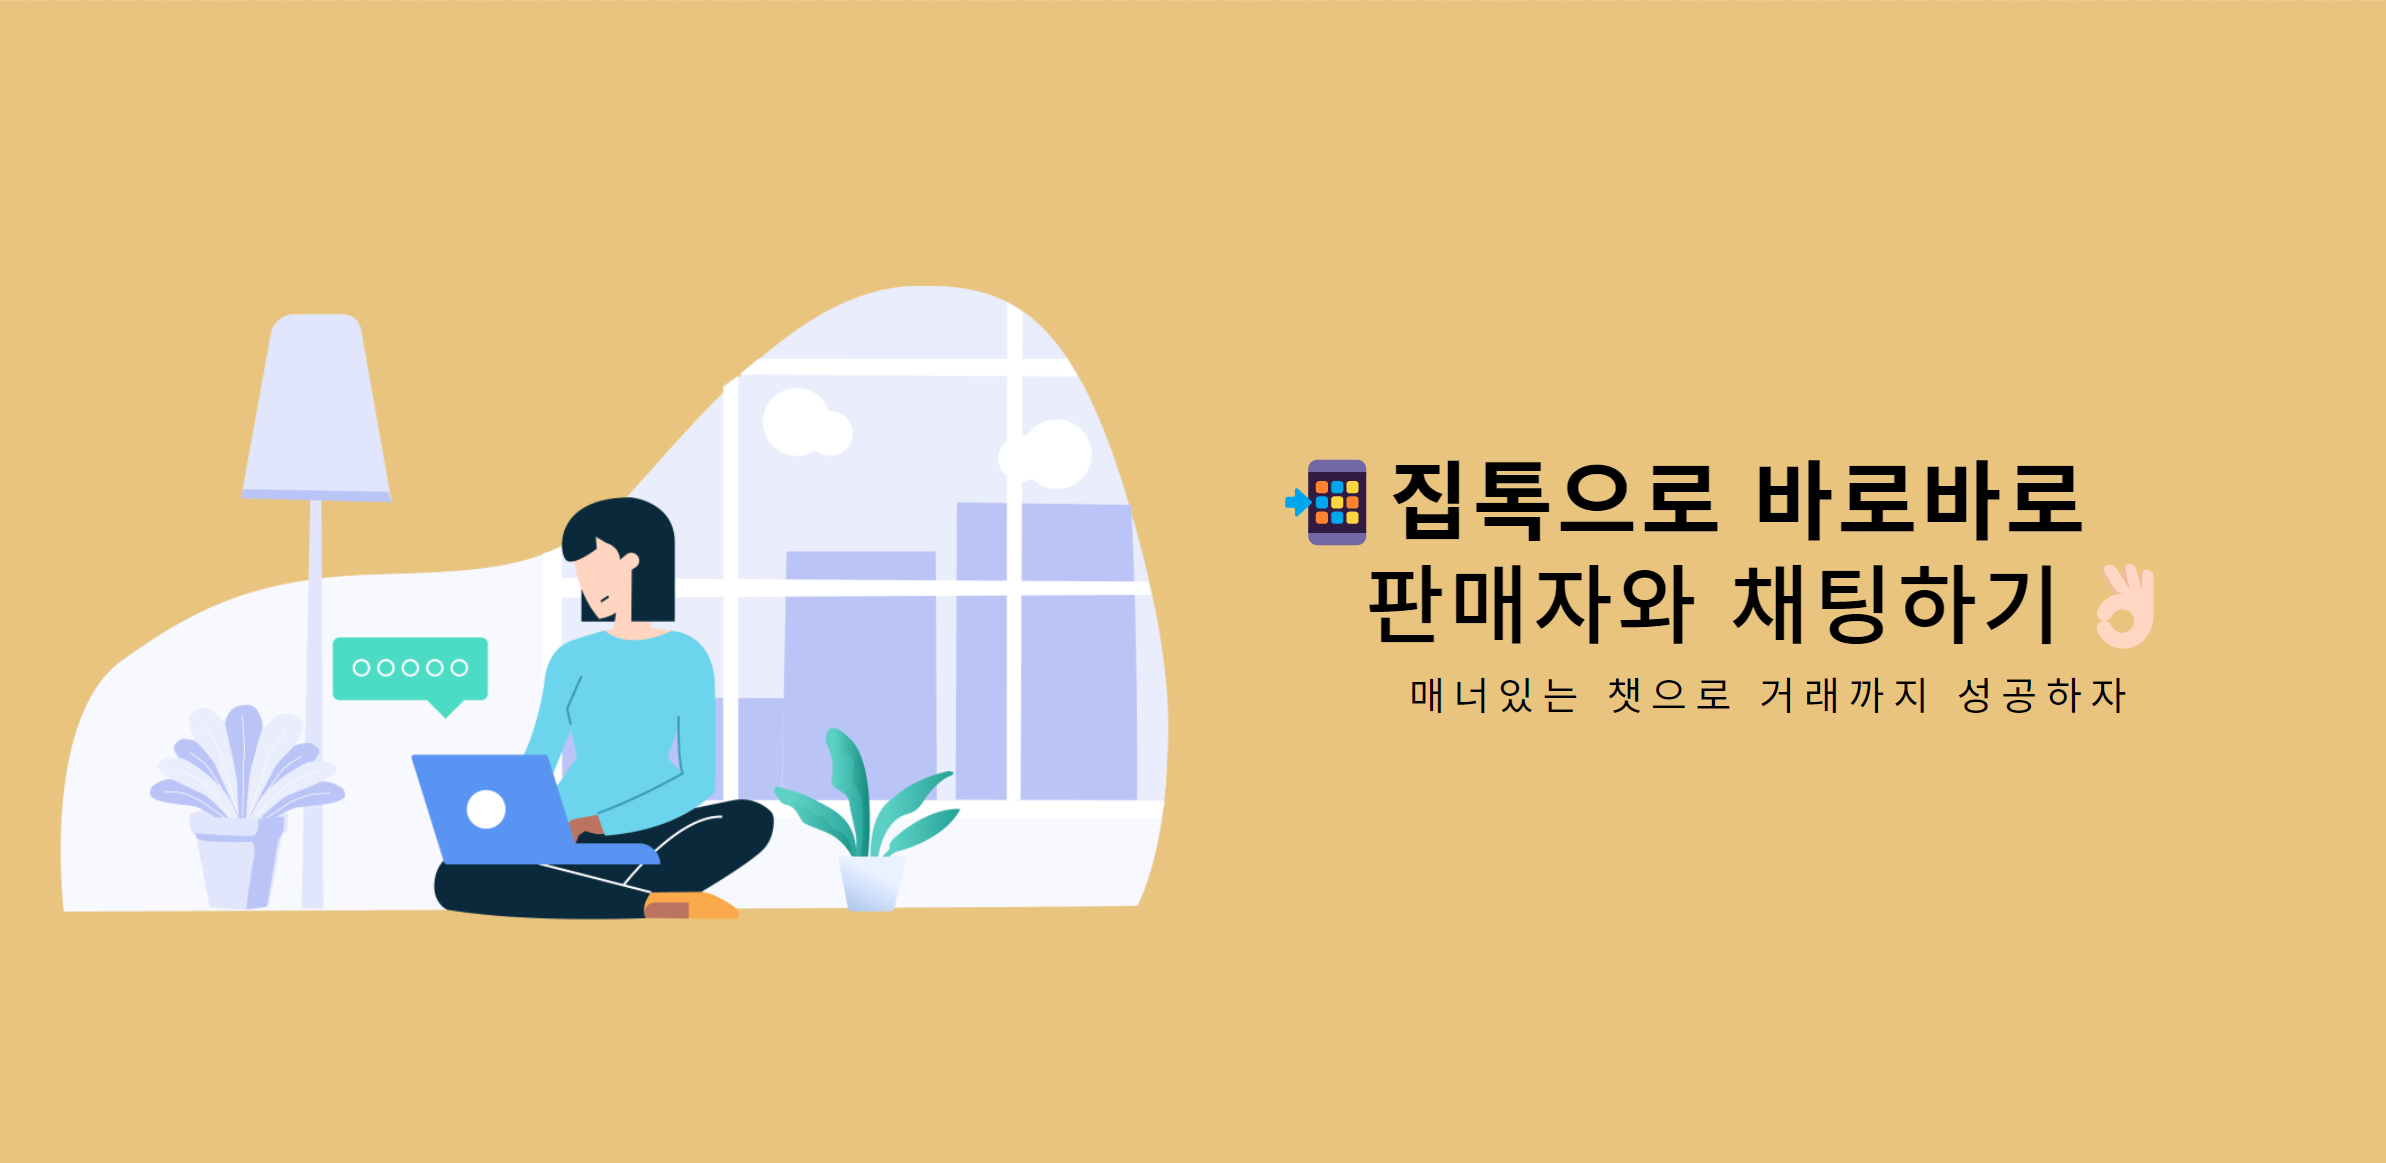
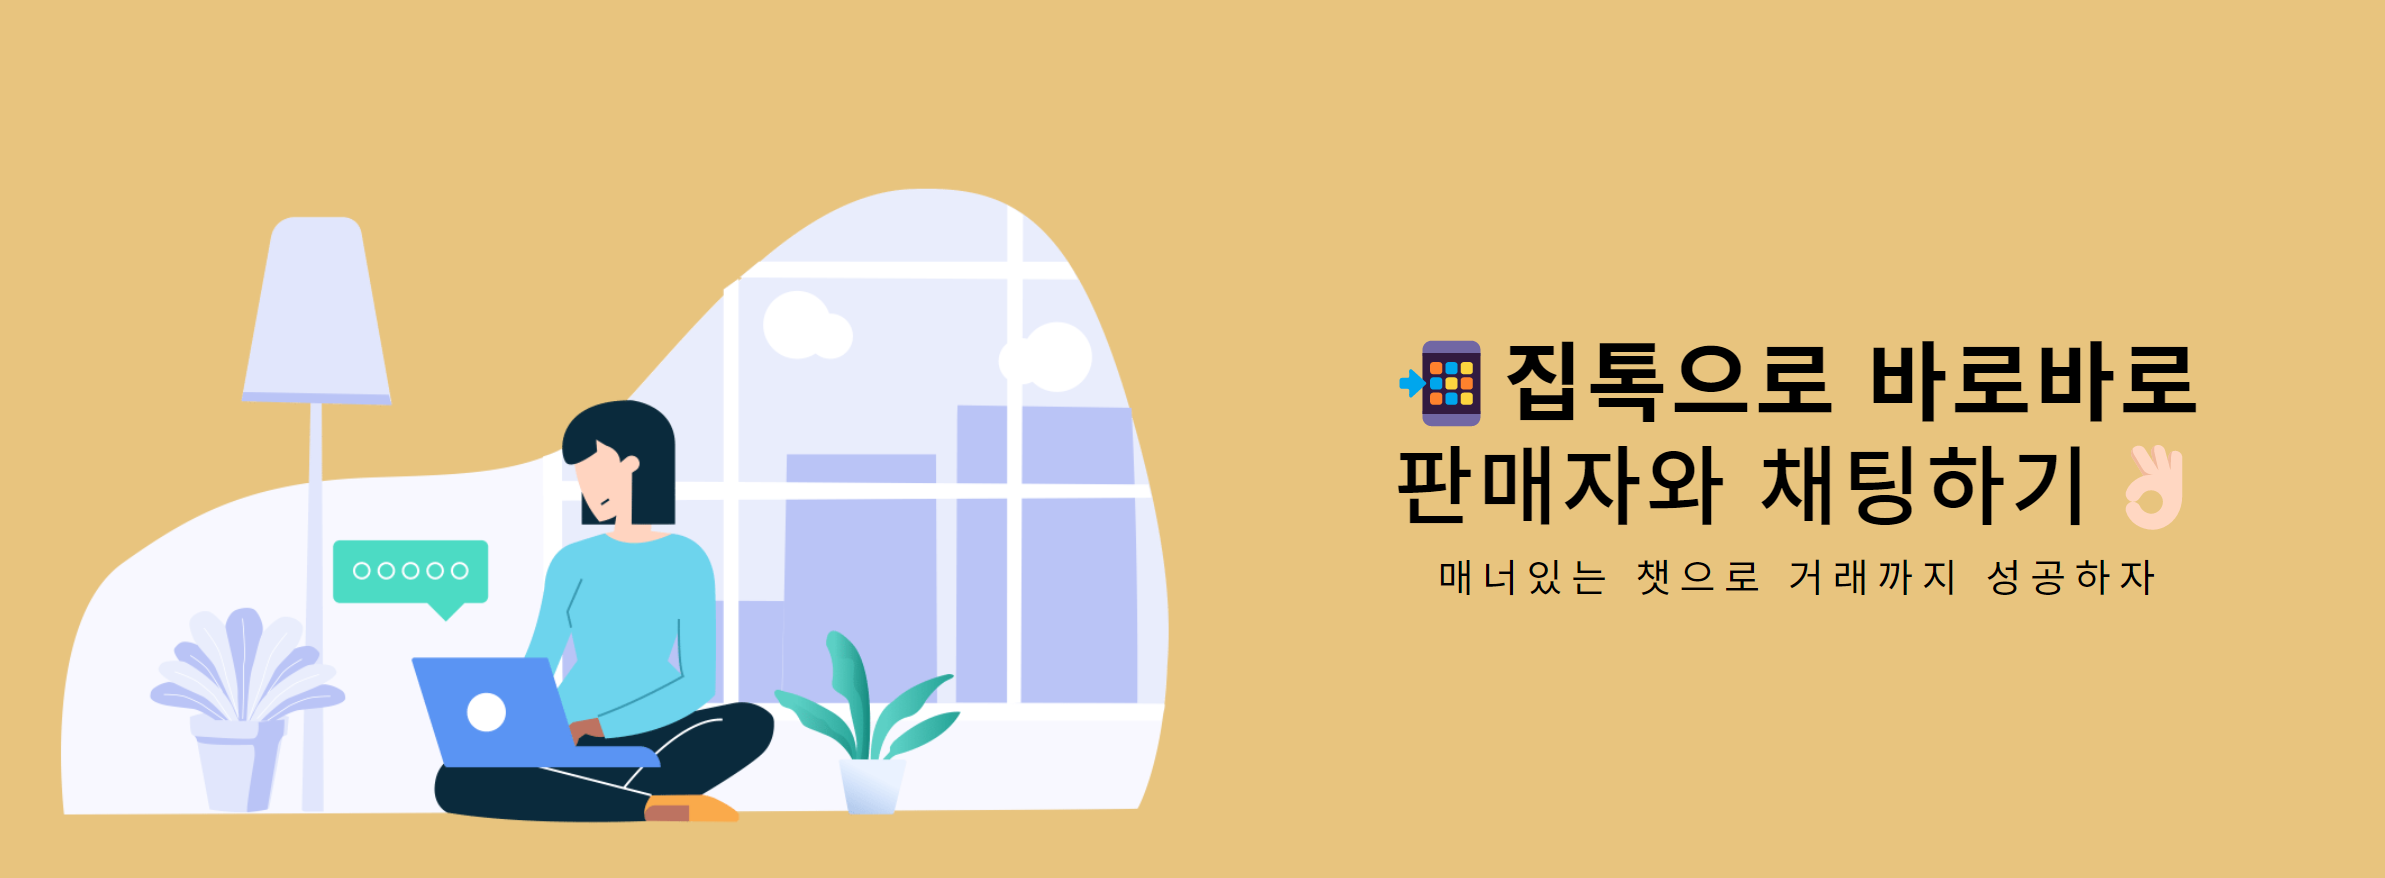
12/05 1750 우진 메페이미지슬라이더사진

diff --git a/src/frontend/src/components/Home.js b/src/frontend/src/components/Home.js
@@ -5,6 +5,10 @@ import Slider from "react-slick";
 import "../css/Home.css";
 import "../css/FeedList.css";
 import MainSlide1 from "../image/MainSlide1.png";
+import MainSlide2 from "../image/MainSlide2.png";
+import MainSlide3 from "../image/MainSlide3.png";
+import MainSlide4 from "../image/MainSlide4.png";
+import MainSlide5 from "../image/MainSlide5.png";
 import mainad from "../image/mainad.webp";
 import mainad2 from "../image/mainad2.webp";
 import mainad3 from "../image/mainad3.jpg";
@@ -159,67 +163,102 @@ function Home(props) {
             <ChatNotification/>
             <ReviewNotification/>
             <Slider {...settings}>
+                {/*<div>*/}
+                {/*    <section className={'hmbx home_box'}>*/}
+                {/*        <div className={'maintxt'}>*/}
+                {/*            <h1><strong>✨예쁜 방에서 나혼자 산다!</strong></h1>*/}
+                {/*            <h1>나만의 공간, 나만의 색으로🎨</h1><br/>*/}
+                {/*            <span>집착 집들이로</span><br/>*/}
+                {/*            <span>당신을 초대합니다:)</span>*/}
+                {/*        </div>*/}
+                {/*        <div>*/}
+                {/*            <img src={MainSlide1} style={{width:'100%'}}/>*/}
+                {/*        </div>*/}
+                {/*    </section>*/}
+                {/*</div>*/}
+                {/*<div>*/}
+                {/*    <section className={'hmbx home_box2'}>*/}
+                {/*        <div className={'maintxt'}>*/}
+                {/*            <h1><strong>🏠집들이와 함께하는 중고 스토어</strong></h1>*/}
+                {/*            <h1>집착으로 인테리어 소품 사고팔자💸</h1><br/>*/}
+                {/*            <span>인테리어 소품 중고 스토어</span><br/>*/}
+                {/*            <span>집착에서 만나요</span>*/}
+                {/*        </div>*/}
+                {/*        <div>*/}
+                {/*            <img src={mainad} style={{width:'650px'}}/>*/}
+                {/*        </div>*/}
+                {/*    </section>*/}
+                {/*</div>*/}
+                {/*<div>*/}
+                {/*    <section className={'hmbx home_box3'}>*/}
+                {/*        <div className={'maintxt'}>*/}
+                {/*            <h1><strong>이제 곧 크리스마스🎄</strong></h1>*/}
+                {/*            <h1>🎅산타도 놀랄 나만의 인테리어</h1><br/>*/}
+                {/*            <span>사실 산타는 없어요</span><br/>*/}
+                {/*        </div>*/}
+                {/*        <div>*/}
+                {/*            <img src={christmas} style={{width:'400px', marginLeft:'10%'}}/>*/}
+                {/*        </div>*/}
+                {/*    </section>*/}
+                {/*</div>*/}
+                {/*<div>*/}
+                {/*    <section className={'hmbx home_box4'}>*/}
+                {/*        <div className={'maintxt'}>*/}
+                {/*            <h1><strong>📲집톡으로 바로바로</strong></h1>*/}
+                {/*            <h1>판매자와 채팅하기👌🏻</h1><br/>*/}
+                {/*            <span>매너있는 챗으로</span><br/>*/}
+                {/*            <span>거래까지 성공하자-</span><br/>*/}
+                {/*        </div>*/}
+                {/*        <div>*/}
+                {/*            <img src={chat} style={{width:'50%'}}/>*/}
+                {/*        </div>*/}
+                {/*    </section>*/}
+                {/*</div>*/}
+                {/*<div>*/}
+                {/*    <section className={'hmbx home_box5'}>*/}
+                {/*        <div className={'maintxt'}>*/}
+                {/*            <h1><strong>집착 온도 시스템으로🌡</strong></h1>*/}
+                {/*            <h1>🤝믿을수 있는 중고거래</h1><br/>*/}
+                {/*            <span>뜨거울수록</span><br/>*/}
+                {/*            <span>믿음직한 판매자</span><br/>*/}
+                {/*        </div>*/}
+                {/*        <div>*/}
+                {/*            <img src={friends} style={{width:'50%', margin:'auto'}}/>*/}
+                {/*        </div>*/}
+                {/*    </section>*/}
+                {/*</div>*/}
                 <div>
-                    {/*<section className={'hmbx home_box'}>*/}
-                        {/*<div className={'maintxt'}>*/}
-                        {/*    <h1><strong>✨예쁜 방에서 나혼자 산다!</strong></h1>*/}
-                        {/*    <h1>나만의 공간, 나만의 색으로🎨</h1><br/>*/}
-                        {/*    <span>집착 집들이로</span><br/>*/}
-                        {/*    <span>당신을 초대합니다:)</span>*/}
-                        {/*</div>*/}
-                        <div>
-                            <img src={MainSlide1} style={{width:'100%'}}/>
-                        </div>
-                    {/*</section>*/}
-                </div>
-                <div>
-                    <section className={'hmbx home_box2'}>
-                        <div className={'maintxt'}>
-                            <h1><strong>🏠집들이와 함께하는 중고 스토어</strong></h1>
-                            <h1>집착으로 인테리어 소품 사고팔자💸</h1><br/>
-                            <span>인테리어 소품 중고 스토어</span><br/>
-                            <span>집착에서 만나요</span>
-                        </div>
-                        <div>
-                            <img src={mainad} style={{width:'650px'}}/>
+                    <section className={'MainSlide'}>
+                        <div style={{padding:'0 20px'}}>
+                            <img src={MainSlide1}/>
                         </div>
                     </section>
                 </div>
                 <div>
-                    <section className={'hmbx home_box3'}>
-                        <div className={'maintxt'}>
-                            <h1><strong>이제 곧 크리스마스🎄</strong></h1>
-                            <h1>🎅산타도 놀랄 나만의 인테리어</h1><br/>
-                            <span>사실 산타는 없어요</span><br/>
-                        </div>
+                    <section className={'MainSlide'}>
                         <div>
-                            <img src={christmas} style={{width:'400px', marginLeft:'10%'}}/>
+                            <img src={MainSlide2}/>
                         </div>
                     </section>
                 </div>
                 <div>
-                    <section className={'hmbx home_box4'}>
-                        <div className={'maintxt'}>
-                            <h1><strong>📲집톡으로 바로바로</strong></h1>
-                            <h1>판매자와 채팅하기👌🏻</h1><br/>
-                            <span>매너있는 챗으로</span><br/>
-                            <span>거래까지 성공하자-</span><br/>
-                        </div>
+                    <section className={'MainSlide'}>
                         <div>
-                            <img src={chat} style={{width:'50%'}}/>
+                            <img src={MainSlide3}/>
                         </div>
                     </section>
                 </div>
                 <div>
-                    <section className={'hmbx home_box5'}>
-                        <div className={'maintxt'}>
-                            <h1><strong>집착 온도 시스템으로🌡</strong></h1>
-                            <h1>🤝믿을수 있는 중고거래</h1><br/>
-                            <span>뜨거울수록</span><br/>
-                            <span>믿음직한 판매자</span><br/>
-                        </div>
+                    <section className={'MainSlide'}>
                         <div>
-                            <img src={friends} style={{width:'50%', margin:'auto'}}/>
+                            <img src={MainSlide4}/>
+                        </div>
+                    </section>
+                </div>
+                <div>
+                    <section className={'MainSlide'}>
+                        <div>
+                            <img src={MainSlide5}/>
                         </div>
                     </section>
                 </div>

diff --git a/src/frontend/src/css/Home.css b/src/frontend/src/css/Home.css
@@ -4,36 +4,42 @@
     font-weight: normal;
     font-style: normal;
 }
-
-section.hmbx{
-    height: 500px;
+.MainSlide img {
+    width: 100%;
+    border-radius: 15px;
 }
-.home_box{
-    background-color: #D4E4F2;
-    border-radius: 20px;
+.MainSlide div {
+    padding: 0 20px;
 }
-.home_box2{
-    background-color: #E8C47E;
-    border-radius: 20px;
-}
-.home_box3{
-    background-color: #C5E1DE;
-    border-radius: 20px;
-}
-.home_box4{
-    background-color: #F8FEB5;
-    border-radius: 20px;
-}
-.home_box5{
-    background-color: #FBB9AB;
-    border-radius: 20px;
-}
-.maintxt {
-    position: relative;
-    float: right;
-    right: 10%;
-    top: 170px;
-}
+/*section.hmbx{*/
+/*    height: 500px;*/
+/*}*/
+/*.home_box{*/
+/*    background-color: #D4E4F2;*/
+/*    border-radius: 20px;*/
+/*}*/
+/*.home_box2{*/
+/*    background-color: #E8C47E;*/
+/*    border-radius: 20px;*/
+/*}*/
+/*.home_box3{*/
+/*    background-color: #C5E1DE;*/
+/*    border-radius: 20px;*/
+/*}*/
+/*.home_box4{*/
+/*    background-color: #F8FEB5;*/
+/*    border-radius: 20px;*/
+/*}*/
+/*.home_box5{*/
+/*    background-color: #FBB9AB;*/
+/*    border-radius: 20px;*/
+/*}*/
+/*.maintxt {*/
+/*    position: relative;*/
+/*    float: right;*/
+/*    right: 10%;*/
+/*    top: 170px;*/
+/*}*/
 /*.animation {*/
 /*    font-size: 4em;*/
 /*    position: absolute;*/

diff --git a/src/frontend/src/css/Header.css b/src/frontend/src/css/Header.css
@@ -1,18 +1,19 @@
+*{
+    font-family: Noto Sans KR;
+}
+
 .header {
     position: fixed;
     top: 0;
     width: 100%;
     background-color: white;
-    z-index: 10;
+    z-index: 50;
     border-bottom: 1px solid #EAEDEF;
-}
-*{
-    font-family: Noto Sans KR;
 }
 
 ul.menu{
     list-style: none;
-    /*width: 70%;*/
+    /*width: 80%;*/
     /*min-width: 1000px;*/
 }
 .menu_left{
